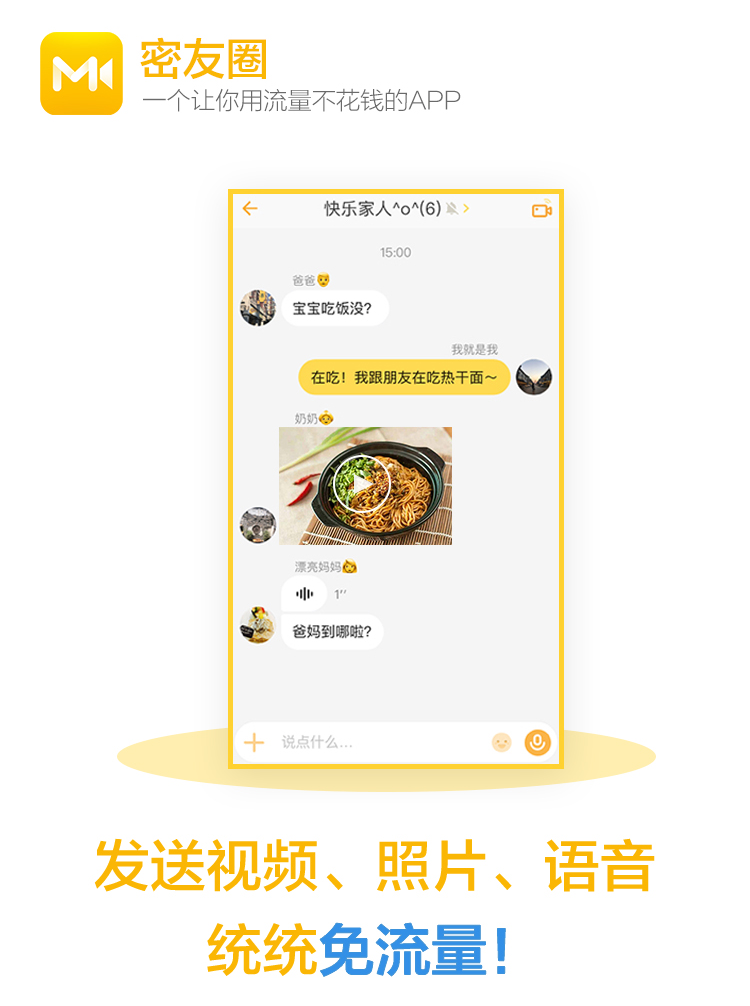
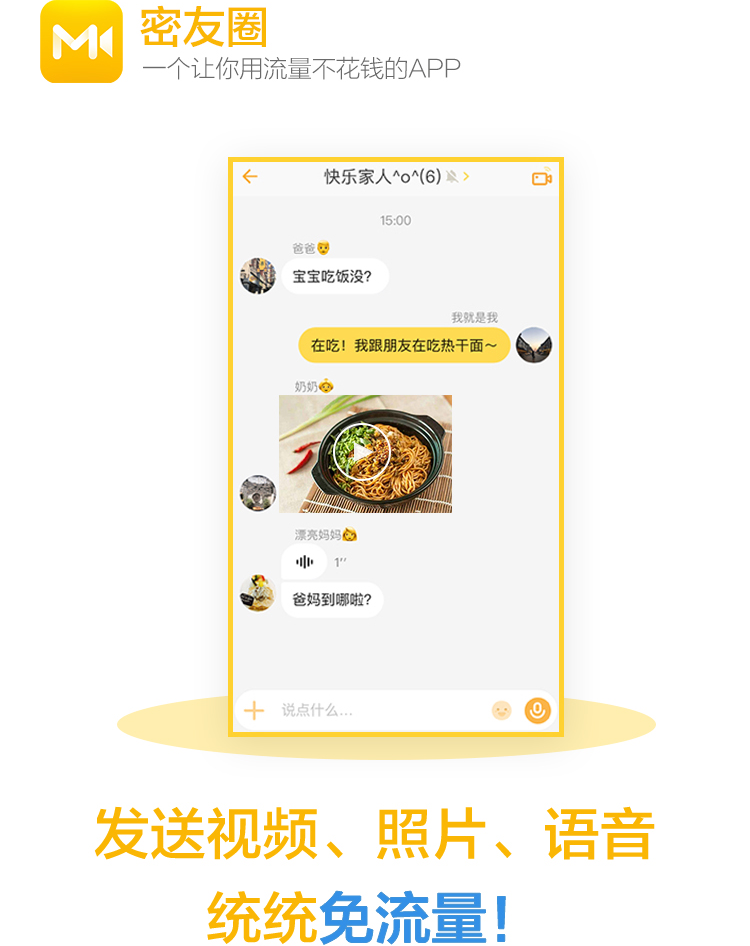
下载页面样式调试

diff --git a/download/css/main.css b/download/css/main.css
@@ -65,7 +65,7 @@ ul {
 /**********第一屏**************/
 .pg_bg {
   width: 100%;
-  height: 9rem;
+  height: 9.46rem;
   background-color: #fff2d0;
   position: absolute;
   top: 0;
@@ -80,15 +80,15 @@ ul {
 
 /*********按钮*********/
 .download-btn {
-  width: 6.4rem;
-  height: 1.14rem;
+  width: 6.2rem;
+  height: 1.2rem;
   background: url(../img/btn_nor@2x.png) no-repeat;
   background-size: 100% 100%;
   -webkit-background-size: 100% 100%;
   position: absolute;
   bottom: 0.62rem;
   left: 50%;
-  margin-left: -3.2rem;
+  transform: translateX(-50%);
   z-index: 99;
 }
 
@@ -99,15 +99,13 @@ ul {
 }
 
 .download-btn a {
-  display: inline-block;
+  display: block;
   width: 100%;
   height: 100%;
-  line-height: 1.14rem;
+  line-height: 1.2rem;
   text-align: center;
   color: #fff;
   font-size: 0.4rem;
-  position: relative;
-  top: -0.28rem;
 }
 
 /*****next*****/
@@ -121,8 +119,26 @@ ul {
   bottom: 10px;
   left: 50%;
   margin-left: -0.2rem;
-
+  -webkit-animation: up 1.8s ease 0s infinite normal;
+  -ms-animation: up 1.8s ease 0s infinite normal;
+  animation: up 1.8s ease 0s infinite normal;
 }
+/*箭头动画*/
+@keyframes up {
+  0% {
+    opacity: 0;
+    transform: translate3d(0, 8px, 0);
+  }
+  50% {
+    opacity: 1;
+    transform: translate3d(0, 0, 0);
+  }
+  100% {
+    opacity: 0;
+    transform: translate3d(0, -8px, 0);
+  }
+}
+
 /*遮罩层*/
 .mask{
   display: none;
